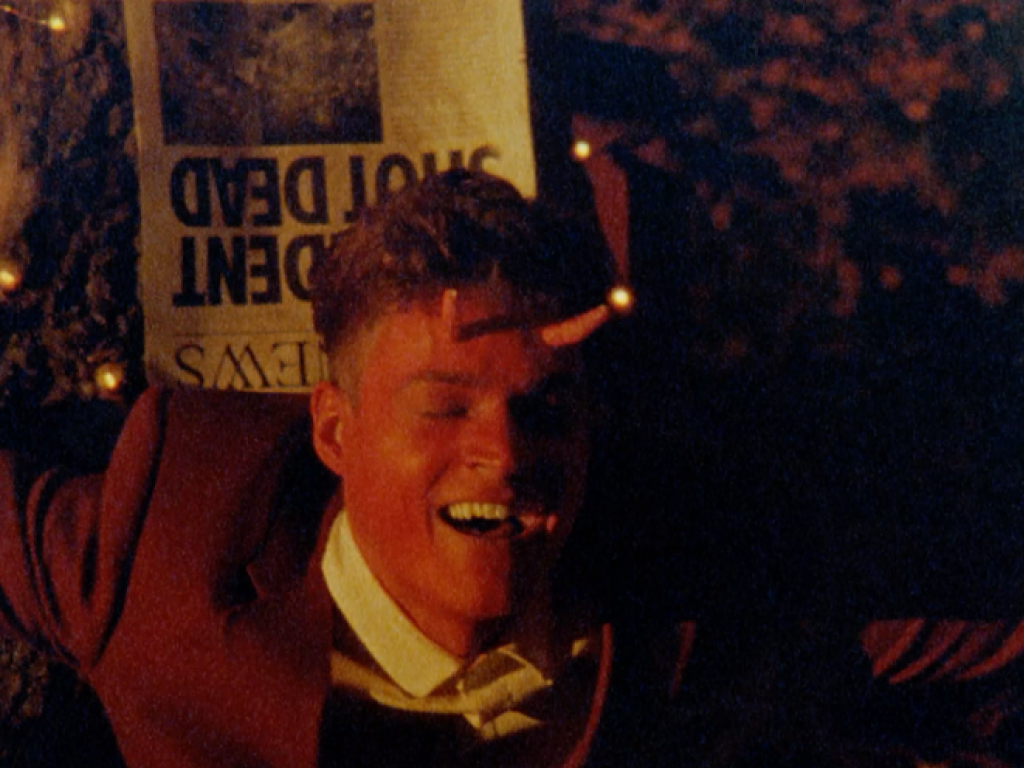
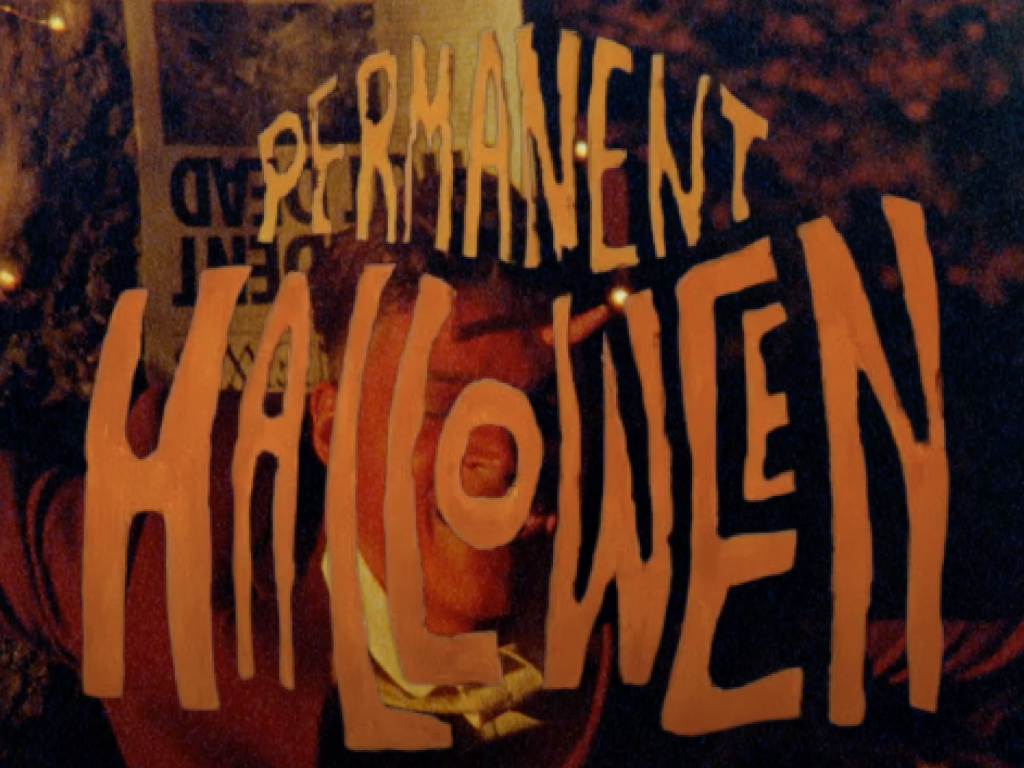
update project images, links, and descriptions

diff --git a/index.html b/index.html
@@ -71,75 +71,77 @@
                   </b></div>
                   <div>Mariah Gardner, Nasir Rakib, Cesar Torres</div>
               </a>
-              <small>We explored CAD-CAM workflows. </small>
+              <small>A manuscript completed for a 2024 NSF REU, with the project currently being revised for submission to TEI '25. </small>
           </div>
       </div>
     
       <div class="col l4 m6">
         <div class="display-container">
             <div class="display-topleft black padding">Current Position</div>
-            <a href="pages/ACMresearch/ACMresearch.html" style="display: block;">
+            <a href="https://www.acmuta.com/" target="_blank" style="display: block;">
               <div class="image-wrapper">
-                <img src="assets/images/ResearchDirector.png" class="square-image">
+                <img src="assets/images/ACM.jpg" class="square-image">
               </div>
-                <div><b>Director of Research</b></div>
-                <div>ACM Student Organization</div>
+                <div><b>Director of Research for ACM UTA</b></div>
+                <div>Mariah Gardner, Rohita Konjeti</div>
             </a>
-            <small>We created a new division of research within our student ACM chapter. </small>
+            <small>We are relaunching the research division of our ACM student chapter with an emphasis on mentoring students and guiding them into research. </small>
         </div>
       </div>
     
       <div class="col l4 m6">
         <div class="display-container">
             <div class="display-topleft black padding">Grad Film</div>
-            <a href="pages/ph/ph.html" style="display: block;">
+            <a href="https://youtu.be/byfGf6kUgbk" target="_blank" style="display: block;">
               <div class="image-wrapper">
                 <img src="assets/images/PH.png" class="square-image">
               </div>
                 <div><b>Permanent Halloween</b></div>
                 <div>Mariah Gardner, Ray Baker, Tom Foden</div>
             </a>
-            <small>We made a student film on 16mm film stock. </small>
+            <small>A short film completed as our graduation project, for which I created the shoot schedule, managed the budget, and led the team. </small>
         </div>
       </div>
         
       <div class="col l4 m6">
         <div class="display-container">
             <div class="display-topleft black padding">UTA</div>
-            <a href="pages/undergrad/undergrad.html" style="display: block;">
+            <a href="https://devpost.com/software/panicbuddy" target="_blank" style="display: block;">
               <div class="image-wrapper">
-                <img src="assets/images/coursework.png" class="square-image">
+                <img src="assets/images/panicbuddy.png" class="square-image">
               </div>
-                <div><b>Current Coursework</b></div>
-                <div>The University of Texas at Arlington</div>
+                <div><b>Panic Buddy</b></div>
+                <div>Mariah Gardner, Rohita Konjeti, Ashwin Indurti, Samanza Ahmed</div>
             </a>
-            <small>A collection of recent projects from my studies. </small>
+            <small>An ios app that alerts loved ones in the event of a user's panic attack. </small>
         </div>
       </div>
 
       <div class="col l4 m6">
         <div class="display-container">
             <div class="display-topleft black padding">Best DevPost</div>
-            <a href="pages/planetscore/planetscore.html" style="display: block;">
+            <a href="https://devpost.com/software/planet-score"target="_blank" style="display: block;">
               <div class="image-wrapper">
                 <img src="assets/images/PlanetScore.png" class="square-image">
               </div>
                 <div><b>Planet Score</b></div>
-                <div>HackUTD</div>
+                <div>Mariah Gardner</div>
             </a>
-            <small>A google chrome that calculates the carbon emissions of products as users shop. </small>
+            <small>A Google Chrome extension that computes the carbon footprint of products while users shop. </small>
         </div>
       </div>
 
       <div class="col l4 m6">
-        <a href="pages/well-logged/well-logged.html" style="display: block;">
-          </a><div class="display-container"><a href="pages/well-logged/well-logged.html" style="display: block;">
+        <div class="display-container">
+          <div class="display-topleft black padding">Best DevPost</div>
+            <a href="https://well-logged.vercel.app/" target="_blank" style="display: block;">
               <div class="image-wrapper">
                 <img src="assets/images/well-logged.png" alt="well-logged" class="square-image">
               </div>
-                  <div><b>well-logged!</b></div>
+                  <div><b>Well-Logged!</b></div>
+                  <div>Mariah Gardner, Matheos Giakoumi, Gabriel Ojo, Manav Patel, Leena Abdulqader</div>
               </a>
-              <div><small>This is a visualizer for welling logs. </small></div>
+              <div><small>A React app that interfaces with a Python application via FastAPI to generate well log visuals using Matplotlib. </small></div>
           </div>
       </div>
     </div>
